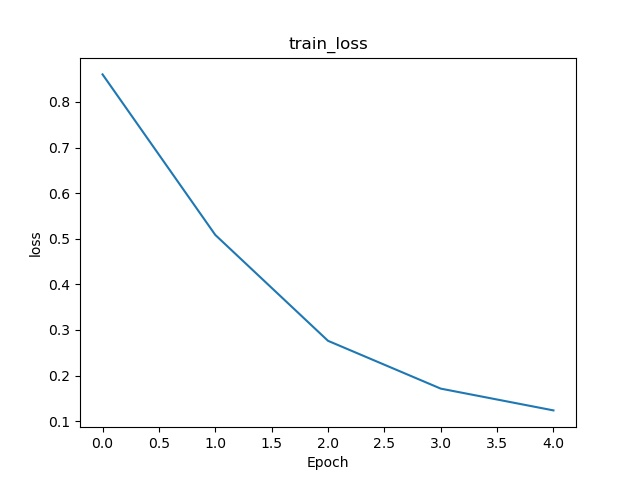
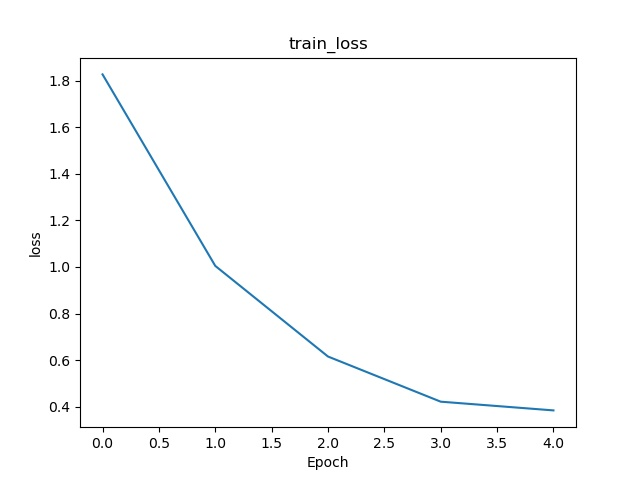
activation

diff --git a/myModel.py b/myModel.py
@@ -20,10 +20,8 @@ train_9_dir = 'D:/Users/Wu/PycharmProjects/TensorflowGUI/trainData/number/9/'
 class MyModel():
     def getModel(self):
         model = tf.keras.Sequential([
-            tf.keras.layers.Conv2D(32, 3, padding='valid', input_shape=(28, 28, 1)),
-            tf.keras.layers.Flatten(),
-            tf.keras.layers.Dense(10, use_bias=True),
-            tf.keras.layers.Dense(10, activation='linear', use_bias=True),
+            tf.keras.layers.Flatten(input_shape=(28, 28, 1)),
+            tf.keras.layers.Dense(32, activation='relu', use_bias=True),
             tf.keras.layers.Dense(10, activation='softmax', use_bias=True)
         ])
         model.compile(

diff --git a/mainWindow.py b/mainWindow.py
@@ -26,7 +26,7 @@ class TfMainWindow:
         self.layer_variable = []
         self.layer_argument = []
         self.layerOption = ['Conv2D', 'Flatten', 'MaxPool2D', 'Dense', 'Dropout']
-        self.activationOption = ['relu', 'None', 'linear', 'softmax']
+        self.activationOption = ['relu', 'None', 'sigmoid', 'softmax']
         self.paddingOption = ['valid', 'same']
         self.booleanOption = ['True', 'False']
         self.layerCount = 0
